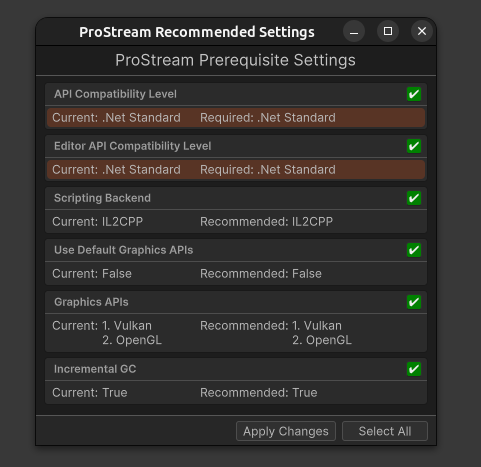
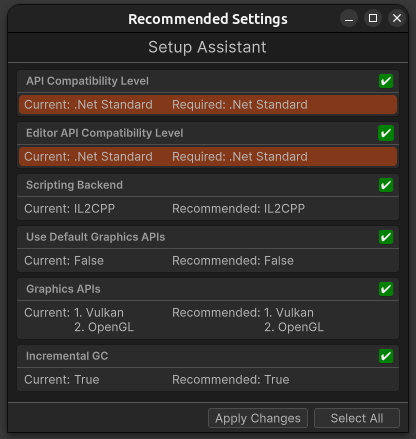
Verbiage updates

diff --git a/docs/src/getting-started/requirements.md b/docs/src/getting-started/requirements.md
@@ -5,15 +5,19 @@
 Before you start, make sure that you have the following:
 
 - The primary requirements of ProStream are that of the Data Oriented Technology Stack [(DOTS/ECS)](https://docs.unity3d.com/Packages/com.unity.entities.graphics@1.4/manual/requirements-and-compatibility.html)
-- Unity 2022.3.0f1 or later (Unity 6.3 is recommended)
+- Unity 2022.3.0f1 or later (Unity 6.4 is recommended)
 - Scriptable Render Pipeline (SRP) installed and configured (URP or HDRP)
 - Any additional requirements as specified by the DOTS/ECS packages for your Editor version or target platform
 
 ### Additional Requirements and Recommendations
 
-- Editor API Compatibility Level set to .Net Standard (required)
+- API Compatibility Level set to .Net Standard (required)
 - Scene GameObjects which are to be converted to Entities need to be [Prefabs](/core-concepts/importance-of-prefabs)
 - (Recommended) Scene Prefabs are children of an Empty Root-Level Parent GameObject
+
+:::info
+Newer versions of Unity have both API Compatibility Level and Editor API Compatibility Level settings.
+:::
 
 ### Recommended Project Settings
 

diff --git a/docs/src/getting-started/setup.md b/docs/src/getting-started/setup.md
@@ -18,11 +18,11 @@ Upon first importing the ProStream package, the ProStream setup window appears a
 
 ## 1) Open the ProStream Setup Window
 
-Upon first importing the ProStream package (or when updating), the ProStream setup window will appear automatically.
+Upon first importing the ProStream package (or when updating), the ProStream setup window will appear automatically.  
 
-For optimal performance, use the settings described above.
-
-These settings can be automatically applied in the `Recommended Settings` window.
+:::tip
+For optimal performance, use the settings described above. These settings can be automatically applied in the `Setup Assistant` window.
+:::
 
 ## 2) Apply Prerequisite Settings
 

diff --git a/docs/src/getting-started/sample-quickstart.md b/docs/src/getting-started/sample-quickstart.md
@@ -28,7 +28,7 @@ From the ProStream Setup window, select the "View Settings Options" button.
 
 ![View Settings Options](/images/quick_start/view_settings_options.png)
 
-This window will show you the required and recommended settings for your project (with required items being highlighted)
+The `Setup Assistant` window will show you the required and recommended settings for your project (with required items being highlighted in orange)
 Check the boxes of the changes you wish to apply, then click the "Apply Changes" button to apply them.
 
 ![Check Box and Apply](/images/quick_start/check_box_and_apply.png)
